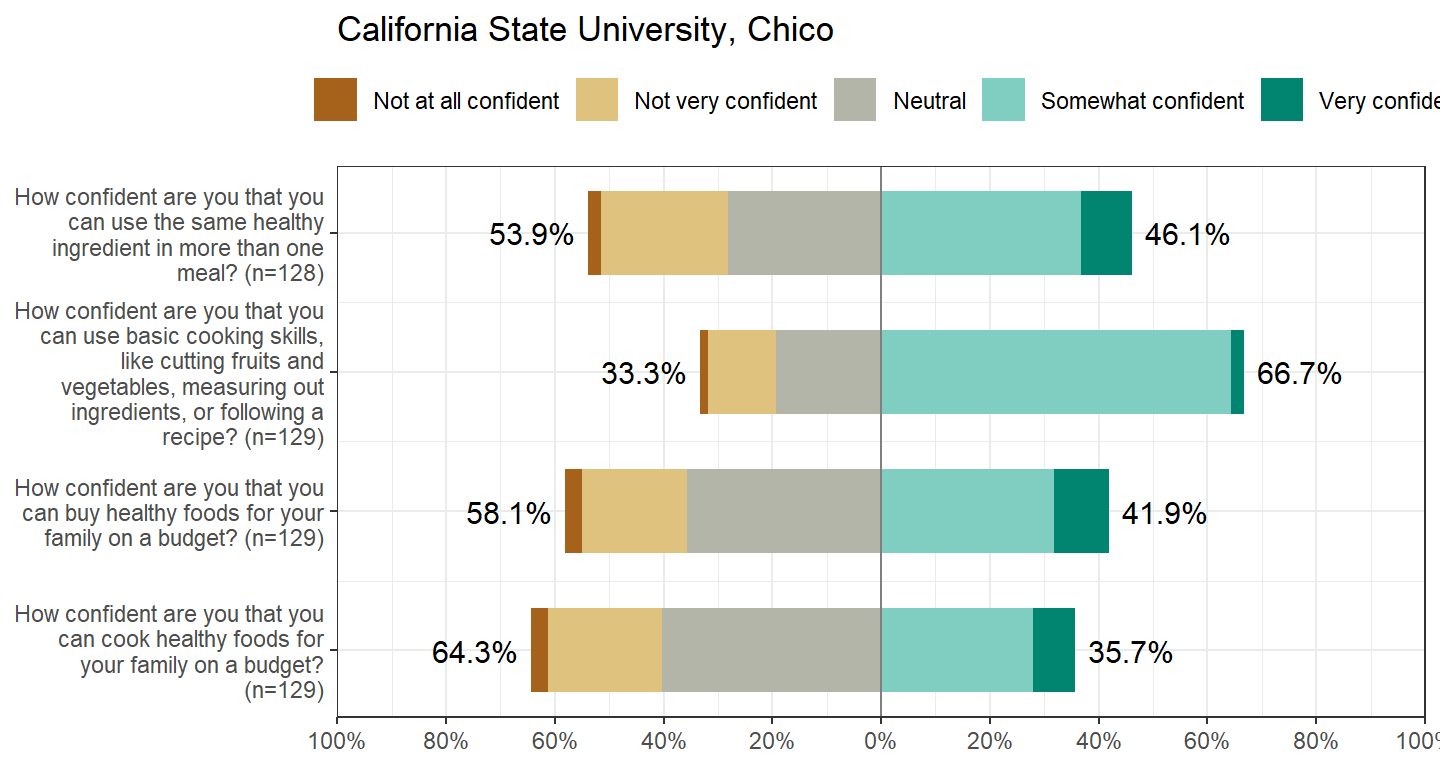
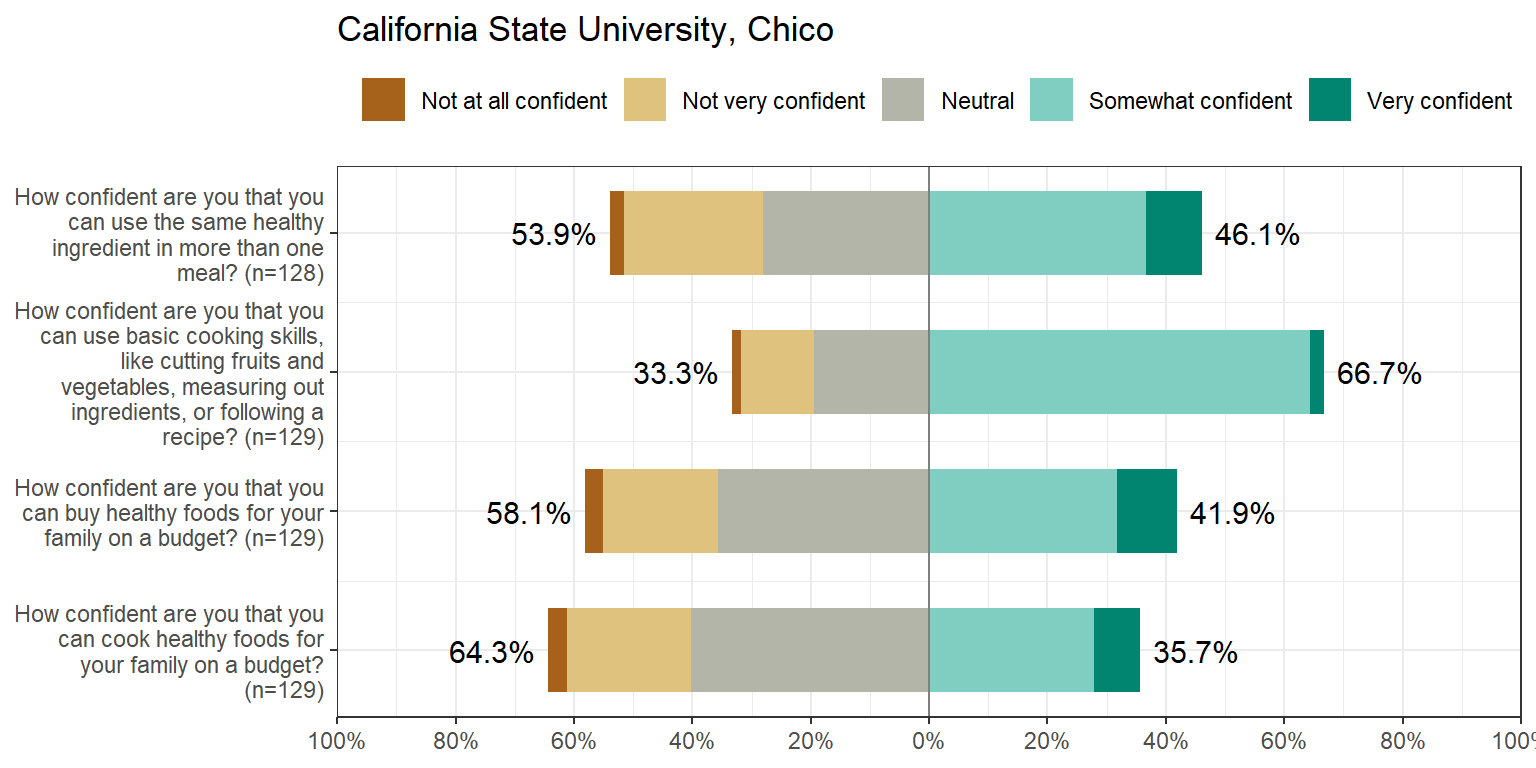
more campus breakdowns

diff --git a/Physical_Activity.html b/Physical_Activity.html
@@ -532,6 +532,17 @@ Table 9.1: Weekly Physical Activity Breakdown
 <ul>
 <li>The majority of participants claim to have done 0 days of vigorous exercise in the past week (223 people). The general trend is that as the number of days increases, the number of students who exercised for those given number of days decreases. Only a small number of people claim to do vigorous exercise for 4 or more days in the past week.</li>
 </ul>
+<p><br /></p>
+</div>
+<div id="campus-breakdown" class="section level3">
+<h3>🏫 📊 Campus Breakdown</h3>
+<details>
+<summary>
+Click here for campus breakdown of physical activity.
+</summary>
+<p><img src="Physical_Activity_files/figure-html/unnamed-chunk-4-1.png" width="768" style="display: block; margin: auto;" /><img src="Physical_Activity_files/figure-html/unnamed-chunk-4-2.png" width="768" style="display: block; margin: auto;" /><img src="Physical_Activity_files/figure-html/unnamed-chunk-4-3.png" width="768" style="display: block; margin: auto;" /> Figure 9.2: Physical Activity by Campus</p>
+</details>
+<p><br /></p>
 <hr />
 </div>
 </div>

diff --git a/Eating_Habits.html b/Eating_Habits.html
@@ -613,7 +613,7 @@ California State University, Northridge
 <summary>
 Click here for campus breakdown of food comfort.
 </summary>
-<p><img src="Eating_Habits_files/figure-html/unnamed-chunk-16-1.png" width="720" style="display: block; margin: auto;" /><img src="Eating_Habits_files/figure-html/unnamed-chunk-16-2.png" width="720" style="display: block; margin: auto;" /><img src="Eating_Habits_files/figure-html/unnamed-chunk-16-3.png" width="720" style="display: block; margin: auto;" /> Figure 8.12: Food Comfort by Campus</p>
+<p><img src="Eating_Habits_files/figure-html/unnamed-chunk-16-1.png" width="768" style="display: block; margin: auto;" /><img src="Eating_Habits_files/figure-html/unnamed-chunk-16-2.png" width="768" style="display: block; margin: auto;" /><img src="Eating_Habits_files/figure-html/unnamed-chunk-16-3.png" width="768" style="display: block; margin: auto;" /> Figure 8.12: Food Comfort by Campus</p>
 </details>
 <p><br /></p>
 <hr />
